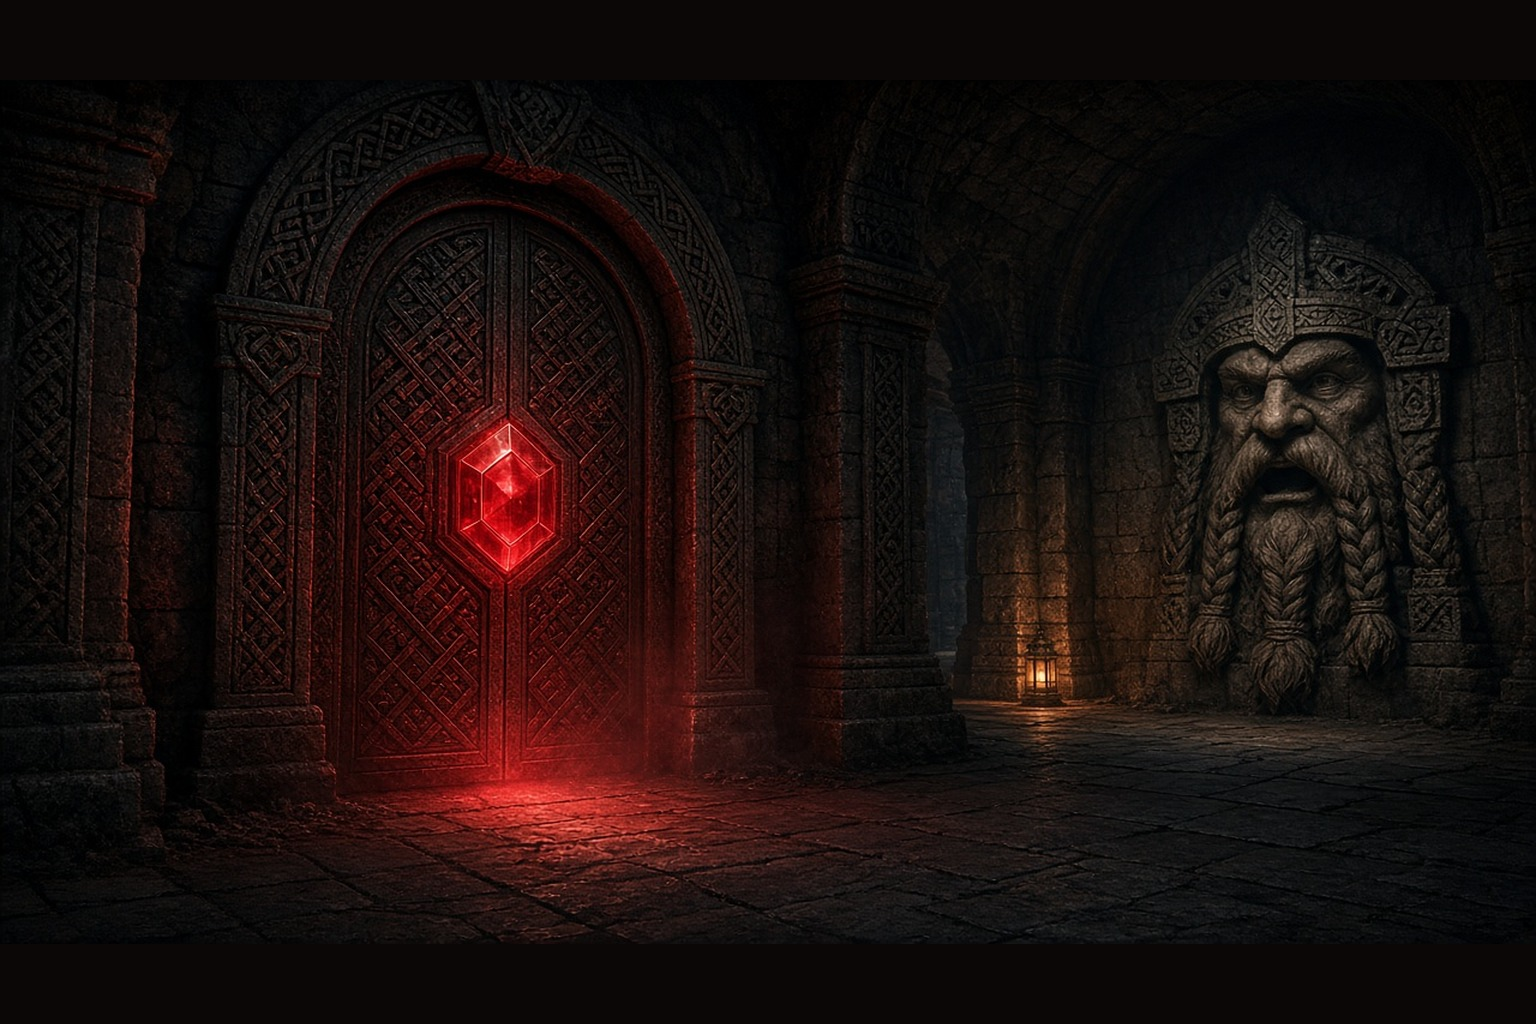
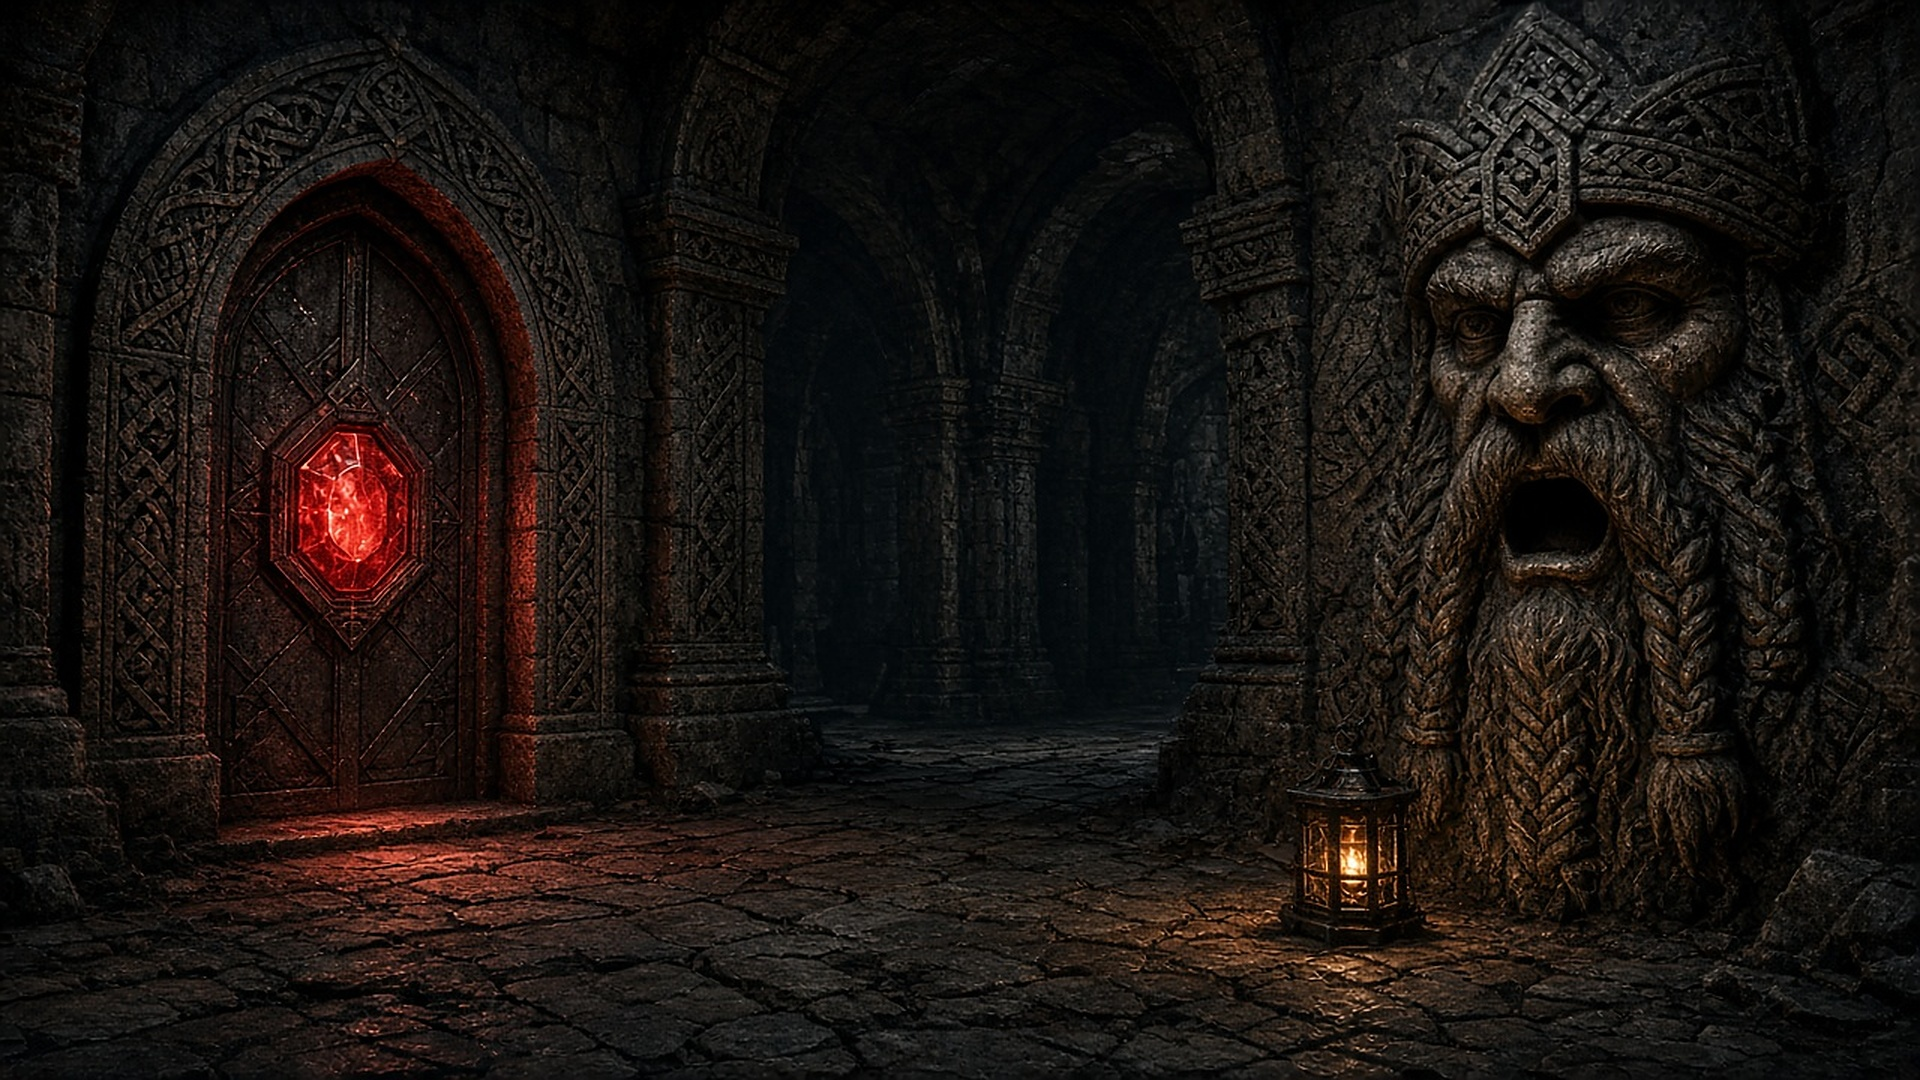
Cover-bleed the signed Chapter I hall on the title menu.
Bind Nick's 1920×1080 title_menu v5 and paint it edge to edge after the splash, with no framed plate or letterbox. ASSET_VER is 109.

diff --git a/src/ui/TitleMenu.test.js b/src/ui/TitleMenu.test.js
@@ -14,14 +14,14 @@ function assert(cond, msg){
   else console.log('ok    '+msg);
 }
 
-assert(/ASSET_VER='108'/.test(html) && !/ASSET_VER='109'/.test(html),
-  'ASSET_VER is 108 — signed title_menu stays cache-busted, chapel v3 bound');
+assert(/ASSET_VER='109'/.test(html) && !/ASSET_VER='110'/.test(html),
+  'ASSET_VER is 109 — signed full-bleed title_menu v5');
 assert(/title_menu:'assets\/ui\/title_menu\.jpg'/.test(html),
   'SPRITE_FILES hooks title_menu to assets/ui/title_menu.jpg');
 assert(!/title_splash_2:/.test(html),
   'title_splash_2 alias is gone');
-assert(/href="assets\/ui\/title_menu\.jpg\?v=107"/.test(html),
-  'title_menu is in the document preload list');
+assert(/href="assets\/ui\/title_menu\.jpg\?v=109"/.test(html),
+  'title_menu preload matches ASSET_VER 109');
 assert(/const first=\['title_splash','title_menu','rubydoor','dwarfface'/.test(html),
   'title_menu, the signed ruby door, and the dwarf face lead the sprite queue');
 assert(/SIGNED ruby-door hall/.test(html),
@@ -31,6 +31,25 @@ const splashJpg=path.join(root,'assets/ui/title_splash.jpg');
 const caveJpg=path.join(root,'assets/ui/intro_cavein.jpg');
 assert(fs.existsSync(menuJpg) && fs.statSync(menuJpg).size>150000,
   'SIGNED title_menu.jpg is in-repo');
+function jpegSize(buf){
+  let i=2;
+  while(i<buf.length-9){
+    if(buf[i]!==0xFF){ i++; continue; }
+    const mark=buf[i+1];
+    if(mark===0xD8||mark===0xD9){ i+=2; continue; }
+    if(mark===0x01||(mark>=0xD0&&mark<=0xD7)){ i+=2; continue; }
+    const len=buf.readUInt16BE(i+2);
+    if(mark===0xC0||mark===0xC1||mark===0xC2){
+      return {h:buf.readUInt16BE(i+5), w:buf.readUInt16BE(i+7)};
+    }
+    if(len<2) break;
+    i+=2+len;
+  }
+  return null;
+}
+const menuDim=jpegSize(fs.readFileSync(menuJpg));
+assert(menuDim&&menuDim.w===1920&&menuDim.h===1080,
+  'SIGNED title_menu.jpg is the 1920×1080 v5 plate');
 assert(!fs.readFileSync(menuJpg).equals(fs.readFileSync(splashJpg)) &&
   !fs.readFileSync(menuJpg).equals(fs.readFileSync(caveJpg)),
   'second-screen plate is neither the party splash nor the cave-in');
@@ -59,9 +78,11 @@ assert(/function titleMenuSafe\(inset\)\{/.test(html) &&
 assert(/function titleMenuGap\(\)\{ return 12; \}/.test(html), 'stack gap is at least 12');
 assert(/function titleMenuPillW\(vw, padL, padR\)\{/.test(html) && /Math\.min\(360/.test(html),
   'pills are full-width up to ~360');
-assert(/function drawTitleMenuBillboard\(/.test(html) &&
-  /Math\.min\(w\/img\.width, h\/img\.height\)/.test(html),
-  'billboard contains (scale-to-fit) and never squashes');
+assert(/function drawTitleMenuCover\(/.test(html) &&
+  /Math\.max\(VW\/img\.width, VH\/img\.height\)/.test(html),
+  'menu plate cover-bleeds the canvas and never letterboxes');
+assert(!/function drawTitleMenuBillboard\(/.test(html),
+  'contain-fit framed billboard is gone');
 
 assert(/if\(G\.scene==='title'\) drawTitle\(g\);/.test(html) &&
   /if\(G\.scene==='title_menu'\) drawTitleMenu\(g\);/.test(html),
@@ -96,11 +117,14 @@ assert(/SPR\.title_splash/.test(splash) && !/title_menu/.test(splash) && !/title
   'first screen paints title_splash and does not borrow the level-scene plate');
 
 const menu=html.match(/function drawTitleMenu\(g\)\{[\s\S]*?\nfunction drawCredits/)[0];
-assert(/titleMenuArt\(\)/.test(menu) && /drawTitleMenuBillboard/.test(menu) && /drawRubyHallPlate/.test(menu),
-  'signed plate wins; otherwise the ruby-door hall fills the billboard');
+assert(/titleMenuArt\(\)/.test(menu) && /drawTitleMenuCover/.test(menu) &&
+  /drawRubyHallPlate\(g, 0, 0, VW, VH\)/.test(menu),
+  'signed plate cover-bleeds; otherwise the ruby hall fills the canvas');
 assert(!/drawTitleCavern/.test(menu) && !/intro_cavein/.test(menu) && !/title_splash/.test(menu),
-  'menu billboard is not the cavern fallback, the cave-in, or the party splash');
-assert(!/drawSplashCover/.test(menu), 'menu art is not a cover crop under the buttons');
+  'menu plate is not the cavern fallback, the cave-in, or the party splash');
+assert(!/drawSplashCover/.test(menu), 'menu does not reuse the splash cover zoom');
+assert(!/drawArtFrame/.test(menu) && !/drawLetterbox/.test(menu),
+  'menu has no gold frame and no black letterbox');
 assert(!/UIBTN|stickHome|drawHUD|icon_pack/.test(menu),
   'menu has no HUD chrome, stick, or inventory');
 assert(/title:'THE LEGEND OF MACAR'/.test(menu) && /titleGapMin:24/.test(menu),
@@ -151,9 +175,6 @@ function checkStack(name, vw, vh, port, inset){
   const bw=titleMenuPillW(vw, pad.l, pad.r);
   const titleGap=Math.max(24, 28*s);
   const titleBottom=pad.t+Math.max(12,13*s)+8*s+(port?30:26)*s+titleGap+Math.max(16,(port?15:14)*s)*2;
-  const artTop=titleBottom+12;
-  const artBot=stackTop-gap;
-  const artH=artBot-artTop;
   const startFloor=port?48:44;
   assert(pad.t>=16 && pad.l>=16 && pad.r>=16, name+': pad ≥16 on the sides and top');
   assert(pad.b>=24, name+': home-indicator bottom is ≥24 ('+pad.b+')');
@@ -161,8 +182,6 @@ function checkStack(name, vw, vh, port, inset){
   assert(gap>=12, name+': stack gap is ≥12');
   assert(bw<=360 && bw>=vw-pad.l-pad.r-0.01 || bw===360, name+': pill width is full-band or 360 ('+bw.toFixed(1)+')');
   assert(stackTop>titleBottom, name+': thumb stack stays under the title band');
-  assert(artH>=36, name+': billboard has a reserved middle band ('+artH.toFixed(1)+')');
-  assert(artBot<=stackTop-gap+0.01, name+': art ends above the pills (no cover-up)');
   assert(titleGap>=24, name+': ≥24px air before the quote ('+titleGap.toFixed(1)+')');
   assert(titleBottom<vh*0.42, name+': title+quote stay in the top band (bottom='+titleBottom.toFixed(1)+')');
   const lastBottom=stackTop+stackH;

diff --git a/index.html b/index.html
@@ -11,7 +11,7 @@
 <link rel="preconnect" href="https://fonts.gstatic.com" crossorigin>
 <link href="https://fonts.googleapis.com/css2?family=Cinzel:wght@600;700;800&family=Cinzel+Decorative:wght@700;900&family=Cormorant+Garamond:ital,wght@1,600;1,700&display=swap" rel="stylesheet">
 <link rel="preload" as="image" href="assets/ui/title_splash.jpg?v=75">
-<link rel="preload" as="image" href="assets/ui/title_menu.jpg?v=107">
+<link rel="preload" as="image" href="assets/ui/title_menu.jpg?v=109">
 <link rel="preload" as="image" href="assets/ui/intro_ch1.jpg?v=66">
 <link rel="preload" as="image" href="assets/ui/chapters_plate.jpg?v=62">
 <link rel="preload" as="image" href="assets/tiles/tile_floor_mine.png?v=60">
@@ -385,7 +385,7 @@ const FONT_QUOTE='"Cormorant Garamond",Palatino,Georgia,serif';
 
 /* ---------------------------- painted sprites (Baldur's Gate isometric) ---------------------------- */
 const SPR={};
-const ASSET_VER='108';
+const ASSET_VER='109';
 let SPLASH_STATE='loading';
 function assetUrl(src){
   const u=src+(src.indexOf('?')>=0?'&':'?')+'v='+ASSET_VER;
@@ -568,8 +568,8 @@ const SPRITE_FILES={
   icon_boots:'assets/ui/icon_boots.png',
   icon_quiver:'assets/ui/icon_quiver.png',
   title_splash:'assets/ui/title_splash.jpg',
-  /* SIGNED ruby-door hall (Nick pass). Screen 1 stays title_splash.
-     If this JPG fails to decode, the menu falls back to the prop hall. */
+  /* SIGNED ruby-door hall v5 (Nick pass), 1920×1080, full-canvas cover.
+     Screen 1 stays title_splash. If this JPG fails, the prop hall fills the canvas. */
   title_menu:'assets/ui/title_menu.jpg',
   chapters_plate:'assets/ui/chapters_plate.jpg',
   intro_cavein:'assets/ui/intro_cavein.jpg',
@@ -16912,7 +16912,6 @@ function drawRubyHallPlate(g, x, y, w, h){
   g.fillStyle=vig;
   g.fillRect(x, y, w, h*0.22);
   g.restore();
-  drawArtFrame(g, x, y, w, h, 10);
   return true;
 }
 function titleMenuSafe(inset){
@@ -16935,18 +16934,19 @@ function titleSafeBottom(s, port){
   const inset=(typeof safeInsets==='function')?safeInsets():{b:0};
   return Math.max(port?28*s:24*s, (inset.b||0)+16);
 }
-function drawTitleMenuBillboard(g, img, x, y, w, h){
-  g.save();
-  g.fillStyle='#0a0706';
-  g.fillRect(x, y, w, h);
-  if(img&&img.width&&img.height&&w>2&&h>2){
-    const sc=Math.min(w/img.width, h/img.height);
-    const iw=img.width*sc, ih=img.height*sc;
-    drawPhoto(g, img, x+(w-iw)/2, y+(h-ih)/2, iw, ih);
-  }
-  g.restore();
-  drawArtFrame(g, x, y, w, h, 10);
-  return !!(img&&img.width);
+/* Cover the whole canvas. Crop the overflow. Never frame or letterbox. */
+function drawTitleMenuCover(g, img){
+  if(!(img&&img.width&&img.height)||!(VW>2&&VH>2)) return false;
+  const sc=Math.max(VW/img.width, VH/img.height);
+  const iw=img.width*sc, ih=img.height*sc;
+  const prev=g.imageSmoothingEnabled;
+  const prevQ=g.imageSmoothingQuality;
+  g.imageSmoothingEnabled=true;
+  if(g.imageSmoothingQuality) g.imageSmoothingQuality='high';
+  g.drawImage(img, (VW-iw)/2, (VH-ih)/2, iw, ih);
+  g.imageSmoothingEnabled=prev;
+  if(prevQ) g.imageSmoothingQuality=prevQ;
+  return true;
 }
 function drawTitle(g){
   menuHits=[]; const s=UIS;
@@ -17007,6 +17007,10 @@ function drawTitle(g){
 function drawTitleMenu(g){
   menuHits=[]; const s=UIS;
   g.fillStyle='#0a0706'; g.fillRect(0,0,VW,VH);
+  /* Signed hall covers the canvas. Prop hall only if the JPG has not decoded. */
+  if(!drawTitleMenuCover(g, titleMenuArt())){
+    drawRubyHallPlate(g, 0, 0, VW, VH);
+  }
   const inset=(typeof safeInsets==='function')?safeInsets():{t:0,r:0,b:0,l:0};
   const pad=titleMenuSafe(inset);
   const btnH=titleMenuBtnH(s, PORT);
@@ -17028,21 +17032,19 @@ function drawTitleMenu(g){
     flSize:Math.max(16, (PORT?15:14)*s), musSize:8*s,
     labGap:8*s, titleGap:titleGap, titleGapMin:24, musGap:10*s
   });
+  /* Local veil so the gold title reads on the stone. Not a letterbox bar. */
+  drawCopyVeil(g, VW/2, titleLay.t0+titleLay.h/2, Math.min(maxW, 780*s), titleLay.h+28*s, 0.42);
   paintHighPlate(g, titleLay, {
     alpha:1, maxW, ruleW:Math.min(200, maxW*0.42),
     paintTitle:(gg,ln,y,sz)=>displayTitle(gg, ln, y, sz)
   });
-  const artTop=titleLay.bottom+12;
-  const artBot=stackTop-gap-wipeReserve;
-  const artH=Math.max(36, artBot-artTop);
-  const artW=PORT?maxW:Math.min(VW-pad.l-pad.r, Math.max(maxW, VW*0.92));
-  const artX=(VW-artW)/2;
-  if(artH>=36){
-    const signed=titleMenuArt();
-    if(!drawTitleMenuBillboard(g, signed, artX, artTop, artW, artH)){
-      drawRubyHallPlate(g, artX, artTop, artW, artH);
-    }
-  }
+  const scrimTop=Math.max(0, stackTop-(G.wipeAsk?52:16)*s);
+  const scrim=g.createLinearGradient(0, scrimTop, 0, VH);
+  scrim.addColorStop(0, 'rgba(0,0,0,0)');
+  scrim.addColorStop(0.42, 'rgba(0,0,0,0.22)');
+  scrim.addColorStop(1, 'rgba(0,0,0,0.48)');
+  g.fillStyle=scrim;
+  g.fillRect(0, scrimTop, VW, VH-scrimTop);
   g.globalAlpha=1;
   let y=stackTop+btnH/2;
   if(G.wipeAsk){

diff --git a/src/systems/Interaction.test.js b/src/systems/Interaction.test.js
@@ -37,7 +37,7 @@ assert(SR.SHIPPED.indexOf('Interaction')>=0 && SR.SHIPPED.indexOf('Discovery')>=
 assert(/src="src\/systems\/Interaction\.js"/.test(html),
   'Interaction is a classic sync tag');
 assert(!/type\s*=\s*["']module["']/.test(html), 'index.html still has no type=module');
-assert(/ASSET_VER='108'/.test(html), 'ASSET_VER is 108');
+assert(/ASSET_VER='109'/.test(html), 'ASSET_VER is 109');
 assert(/function tryFindSecret\(p, mode\)\{/.test(html) &&
   /key==='search'/.test(html) && /key==='secret'/.test(html),
   'dual SEARCH (F herbs / T doors) is unchanged');
@@ -388,7 +388,7 @@ assert(/if\(typeof Interaction!=='undefined' && Interaction\.isProtectedCell/.te
 assert(/breakRock\(L,i,j\)/.test(html) && /function breakRock\(L,i,j\)\{/.test(html),
   'host breakRock remains the destruction path');
 assert(/function openSecret\(sec\)\{/.test(html), 'host openSecret remains the secret path');
-assert(!/ASSET_VER='109'/.test(html), 'ASSET_VER was not bumped past 108');
+assert(/ASSET_VER='109'/.test(html) && !/ASSET_VER='110'/.test(html), 'ASSET_VER is 109 — full-bleed title menu v5');
 
 if(failed){ console.error('\n'+failed+' failed'); process.exit(1); }
 console.log('\ninteraction checks passed');

diff --git a/src/saves/GameSave.test.js b/src/saves/GameSave.test.js
@@ -69,7 +69,7 @@ assert(/Save game/.test(html) && /function writeGameSave\(/.test(html), 'pause c
 }
 assert(/GameSave\.captureWorld/.test(html) && /GameSave\.applyWorld/.test(html), 'play save uses the versioned world schema');
 assert(/remakeSavedEnt/.test(html) && /restoreSavedEid/.test(html), 'load remakes ents and restores numeric EIDs');
-assert(!/ASSET_VER='100'/.test(html) && !/ASSET_VER='101'/.test(html) && !/ASSET_VER='102'/.test(html) && /ASSET_VER='108'/.test(html), 'ASSET_VER is 108');
+assert(!/ASSET_VER='100'/.test(html) && !/ASSET_VER='101'/.test(html) && !/ASSET_VER='102'/.test(html) && /ASSET_VER='109'/.test(html), 'ASSET_VER is 109');
 assert(/G\.scene==='camp'/.test(html) && /drawHint\(g,UIS\)/.test(html), 'camp draws the Saved toast');
 assert(/Continue/.test(html) && /function loadSavedGame\(/.test(html), 'title can continue a save');
 assert(/G\._keepProgress/.test(html) && /G\._forceSeeds/.test(html), 'load keeps campaign and dungeon seeds');

diff --git a/src/ui/Ch1RubbleLoad.test.js b/src/ui/Ch1RubbleLoad.test.js
@@ -45,7 +45,7 @@ assert(!/else if\(okTex\)\{/.test(html),
   'generated TEX diamonds are not a first-frame floor/wall fallback');
 assert(/tile_floor_mine\.png\?v=60/.test(html) && /tile_wall_worked\.png\?v=60/.test(html),
   'mine floor and worked wall are preloaded before first present');
-assert(/ASSET_VER='108'/.test(html), 'asset cache-bust matches SIGNED chapel v3 bind');
+assert(/ASSET_VER='109'/.test(html), 'asset cache-bust is 109 — full-bleed title menu v5');
 assert(/function scatterBurialRubble\(/.test(html) && /fallen:1/.test(html) && /k:'dust'/.test(html),
   'cave-in entry scatters extra timber, stone, and dust around the burial');
 assert(!/s:0\.55,seed:s\.seed\+40/.test(html) && !/s:0\.48,seed:s\.seed\+51/.test(html),

diff --git a/src/ui/Ch1StartLoadout.test.js b/src/ui/Ch1StartLoadout.test.js
@@ -53,8 +53,8 @@ assert(/if\(r\.key==='macar'\) ensureMacarStartingGear\(pk\)/.test(html),
   'ensurePacks wears the starting kit on Macar');
 assert(/livingMacarIdleKey/.test(html) && /wieldsShadowCleaver/.test(html),
   'maul idle is the default; Cleaver is an equip swap');
-assert(/ASSET_VER='108'/.test(html),
-  'ASSET_VER is 108 — chapel v3 after the title hall, lever, and attack-sheet binds');
+assert(/ASSET_VER='109'/.test(html),
+  'ASSET_VER is 109 — full-bleed title menu v5');
 assert(/Interaction\.installChapterI/.test(html)
   && /if \(L\.n === 1 && i < 14\) return true/.test(fs.readFileSync(path.join(root,'src/systems/Interaction.js'),'utf8')),
   'later room interactions protect the west cave-in lip');

diff --git a/src/dungeon/Ch1TeethCrown.test.js b/src/dungeon/Ch1TeethCrown.test.js
@@ -53,8 +53,8 @@ assert(/one thrall at a time/.test(html) && /Once per corpse/.test(html),
   'HOUSE law is one thrall, once per corpse');
 assert(/follow \/ fight nearest foe \/ stay/.test(html),
   'thrall commands are follow, fight nearest foe, stay');
-assert(/ASSET_VER='108'/.test(html) && !/ASSET_VER='109'/.test(html),
-  'ASSET_VER is 108 — Disney SIGNED teeth chapel v3 bound');
+assert(/ASSET_VER='109'/.test(html) && !/ASSET_VER='110'/.test(html),
+  'ASSET_VER is 109 — full-bleed title menu v5; chapel sheet unchanged');
 assert(/bone_crown:'assets\/props\/prop_bone_crown\.png'/.test(html),
   'bone_crown is registered to the painted prop');
 assert(/tooth:'assets\/props\/prop_tooth\.png'/.test(html)

diff --git a/src/ui/EquipCompare.test.js b/src/ui/EquipCompare.test.js
@@ -70,7 +70,7 @@ assert(SR.has('EquipCompare') && SR.get('EquipCompare')===EC,
 assert(SR.SHIPPED.indexOf('EquipCompare')>=0, 'EquipCompare is a shipped optional module');
 assert(SR.SHIPPED.indexOf('DerivedStats')>=0, 'DerivedStats is a shipped optional module');
 assert(!/type\s*=\s*["']module["']/.test(html), 'index.html still has no type=module');
-assert(/ASSET_VER='108'/.test(html), 'ASSET_VER is 108');
+assert(/ASSET_VER='109'/.test(html), 'ASSET_VER is 109');
 assert(!/ASSET_VER='100'/.test(html) && !/ASSET_VER='101'/.test(html) && !/ASSET_VER='102'/.test(html), 'ASSET_VER is not leftover 100/101/102');
 assert(/src="src\/combat\/DerivedStats\.js"/.test(html),
   'DerivedStats is a classic sync tag');

diff --git a/src/systems/EnemyIntent.test.js b/src/systems/EnemyIntent.test.js
@@ -62,7 +62,7 @@ assert(/function applyEnemyIntent\(/.test(html) && /function intentHost\(/.test(
   'host applies intent through existing steerWalk / atk machinery');
 assert(/EnemyIntent\.decide\(e, dt, intentHost\(\)\)/.test(html),
   'only the foe decision branch consults EnemyIntent');
-assert(/ASSET_VER='108'/.test(html), 'ASSET_VER is 108');
+assert(/ASSET_VER='109'/.test(html), 'ASSET_VER is 109');
 
 const head=html.slice(0, html.indexOf('<script>\n"use strict";'));
 const navI=head.indexOf('src="src/systems/Navigation.js"');

diff --git a/src/systems/Navigation.test.js b/src/systems/Navigation.test.js
@@ -92,7 +92,7 @@ assert(/bumpTopology\('openSecret/.test(html) && /bumpTopology\('breakRock'\)/.t
   'openSecret and breakRock invalidate nav topology');
 assert(/G\.topologyRev=0/.test(html) && /G\.seenRev=\(G\.seenRev\|\|0\)\+1/.test(html),
   'chapter reset clears topologyRev; breakRock still bumps seenRev separately');
-assert(/ASSET_VER='108'/.test(html), 'ASSET_VER is 108');
+assert(/ASSET_VER='109'/.test(html), 'ASSET_VER is 109');
 
 /* ---- real Macar canBe / walk / wallFaceClear ---- */
 function makeGrid(w, h, fill){

diff --git a/src/combat/MacarFidelity.test.js b/src/combat/MacarFidelity.test.js
@@ -25,8 +25,8 @@ function extractFn(name){
   return m[0];
 }
 
-assert(/ASSET_VER='108'/.test(html) && !/ASSET_VER='109'/.test(html),
-  'ASSET_VER is 108 — chapel v3 bind, no Macar sheet swap');
+assert(/ASSET_VER='109'/.test(html) && !/ASSET_VER='110'/.test(html),
+  'ASSET_VER is 109 — full-bleed title menu v5, no Macar sheet swap');
 
 assert(/function pickPlayDpr\(/.test(html) && /function gfxDprCap\(/.test(html),
   'integer play DPR helper exists');

diff --git a/src/systems/Discovery.test.js b/src/systems/Discovery.test.js
@@ -32,7 +32,7 @@ assert(SR.has('Discovery') && SR.get('Discovery')===D,
 assert(/src="src\/systems\/Discovery\.js"/.test(html),
   'Discovery is a classic sync tag');
 assert(!/type\s*=\s*["']module["']/.test(html), 'index.html still has no type=module');
-assert(/ASSET_VER='108'/.test(html), 'ASSET_VER is 108');
+assert(/ASSET_VER='109'/.test(html), 'ASSET_VER is 109');
 
 D.reset();
 assert(D.note('not-an-id','seen')===null, 'malformed id is rejected');
